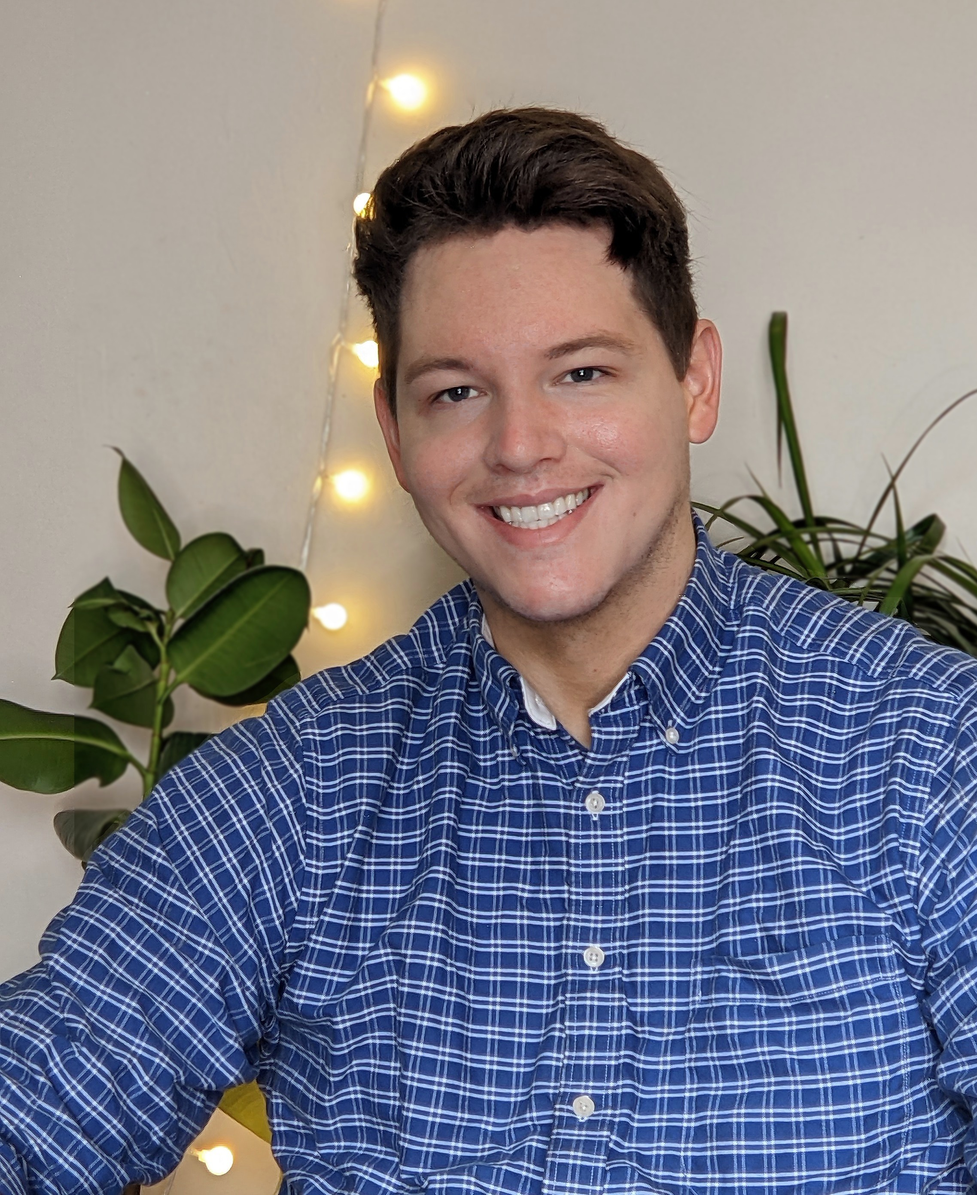
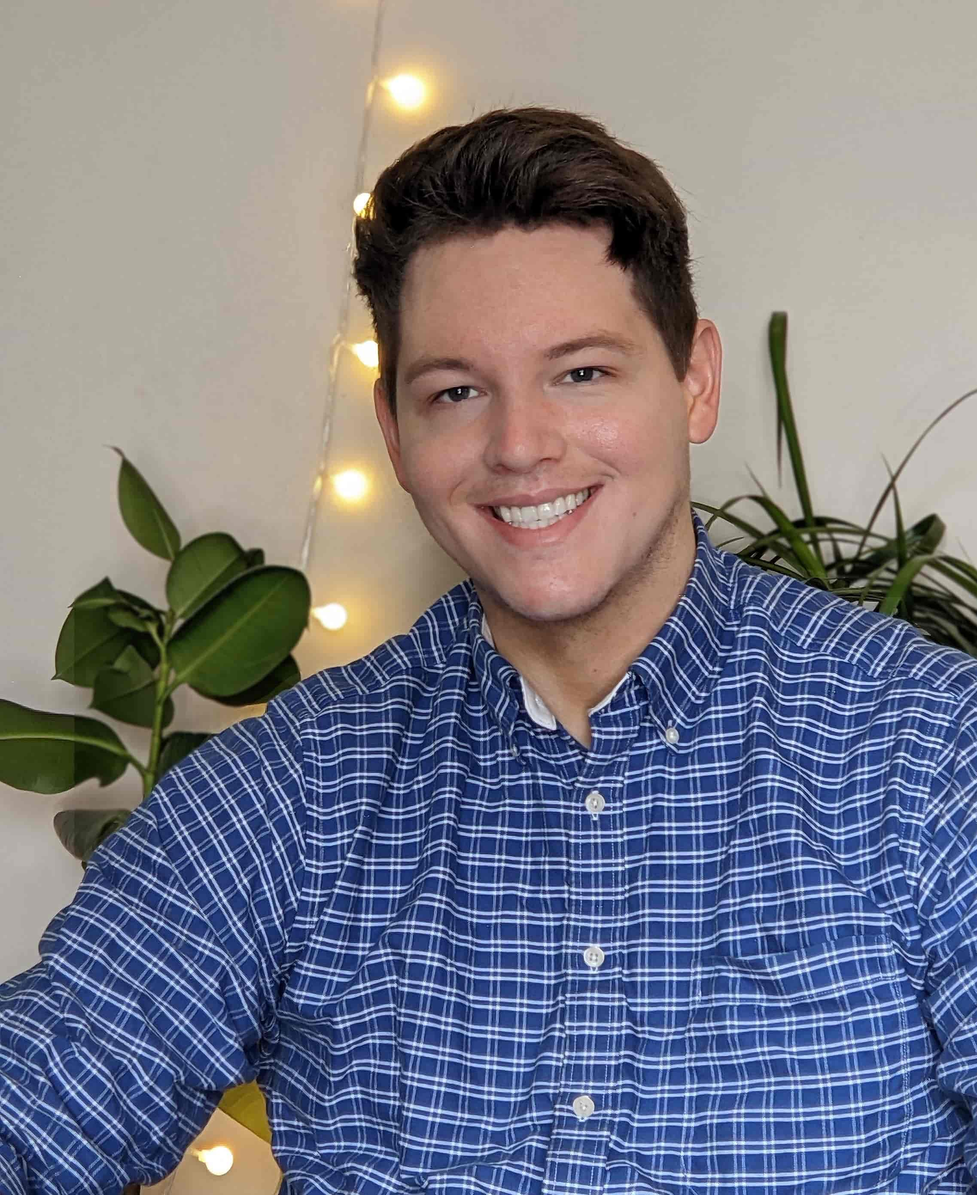
Optimise images on home page

diff --git a/app/components/header.js b/app/components/header.js
@@ -45,8 +45,6 @@ const Header = () => {
       duration: 2,
       x: 40,
       y: 200,
-      // skewX: 50,
-      // skewX: -90,
       ease: 'power4.out',
       stagger: {
         amount: 0.5,
@@ -59,8 +57,6 @@ const Header = () => {
         duration: 1,
         x: -40,
         y: -200,
-        // skewX: 50,
-        // skewX: 90,
         ease: 'power4.in',
         stagger: {
           amount: 0.5,
